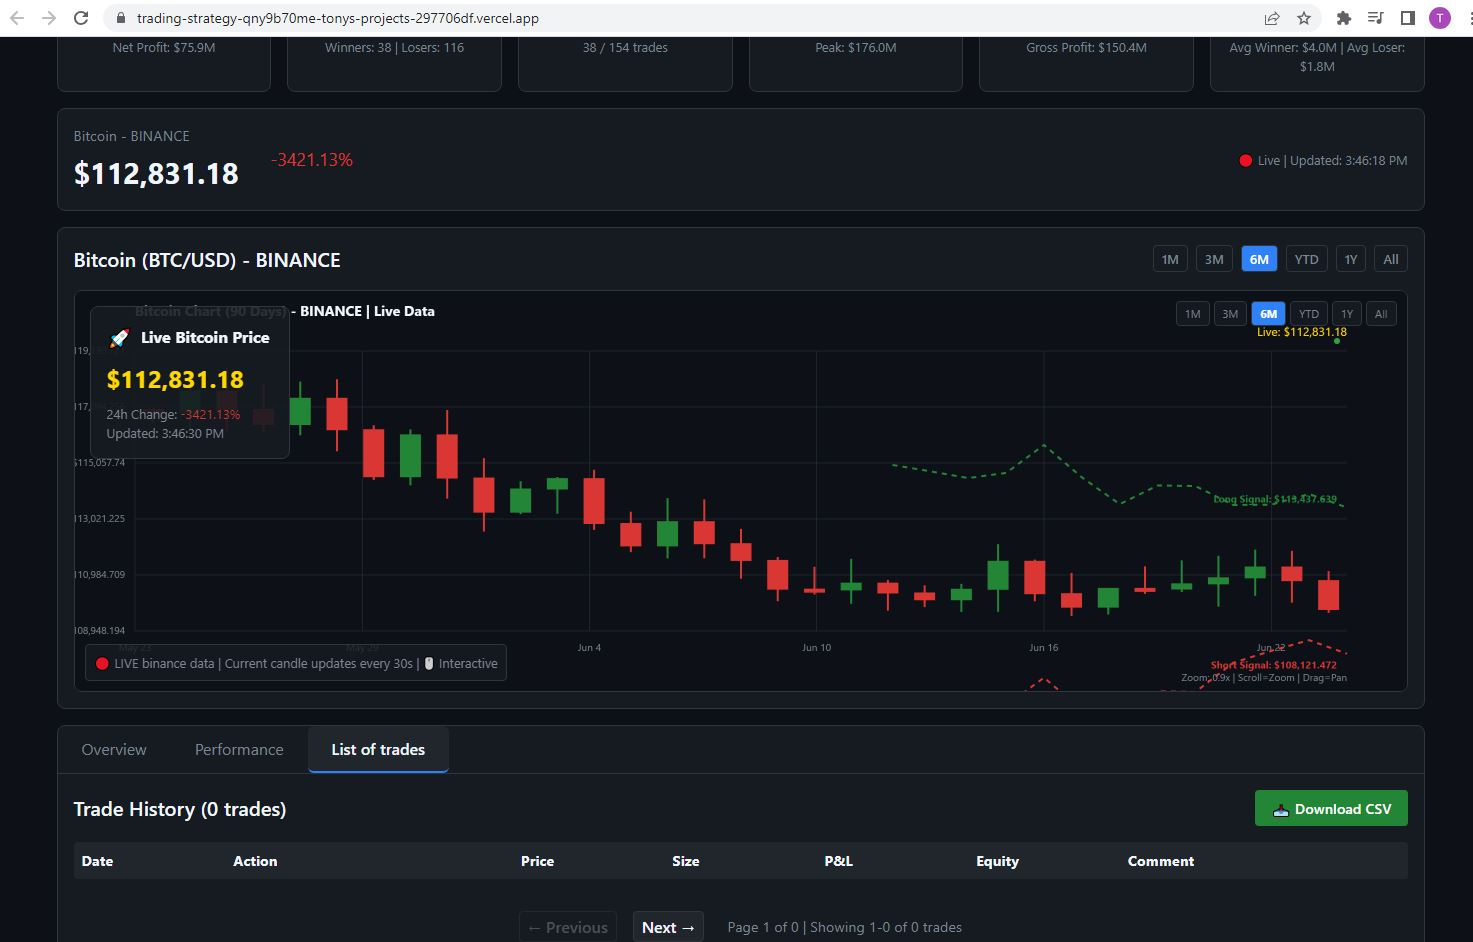
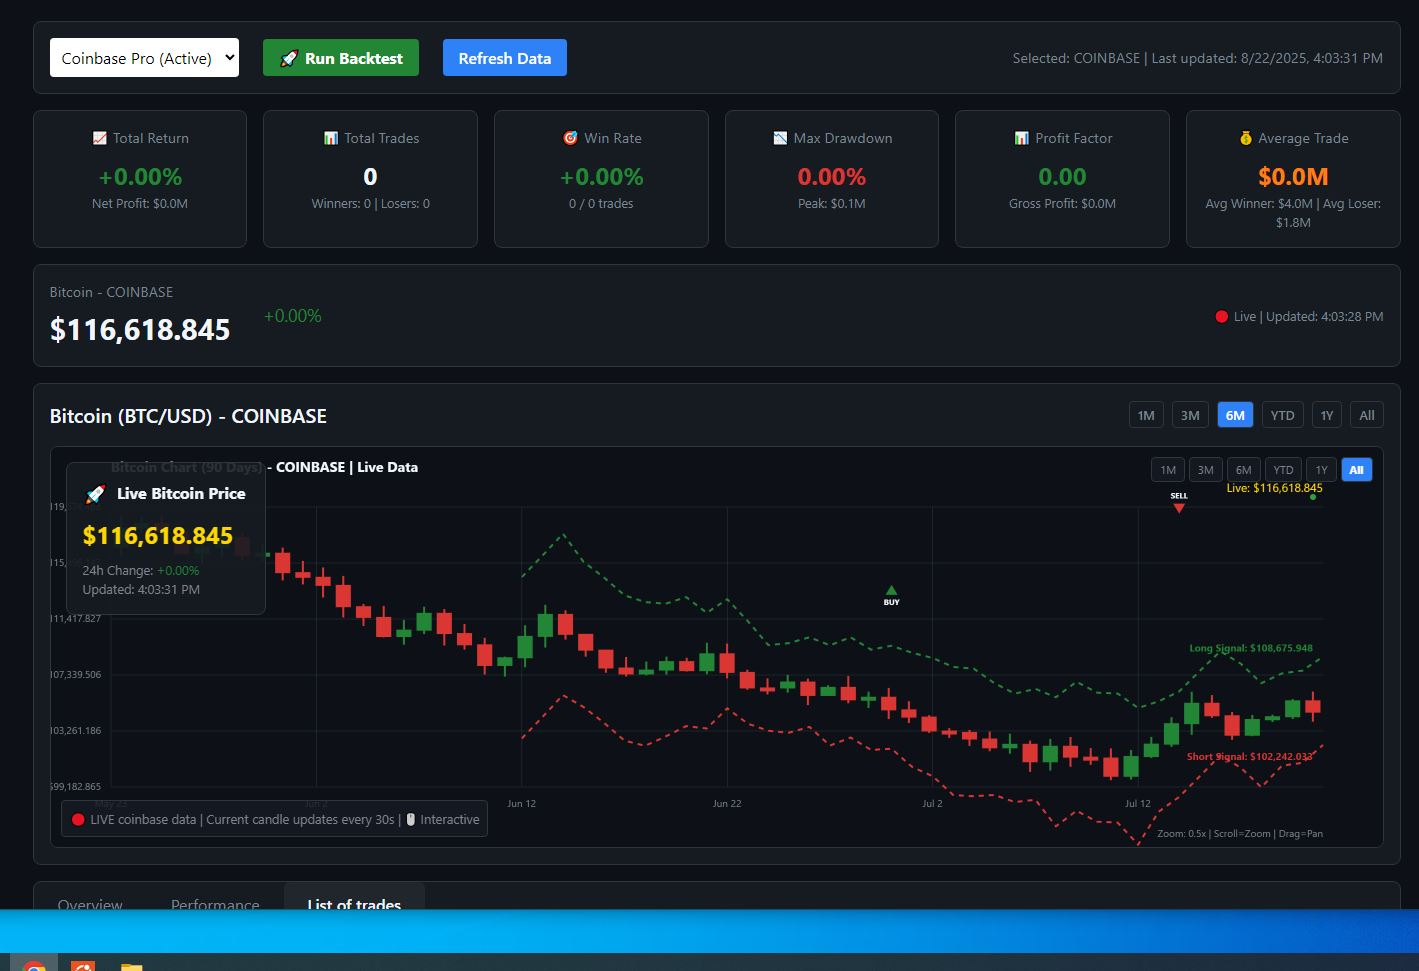
Fix candlestick display: proper thick OHLC bars instead of dots/dashes
✅ IMPROVED CANDLESTICK DISPLAY:
- Increased minimum candlestick width from 12px to 16px
- Increased maximum width from 20px to 30px
- Better spacing ratio (80% instead of 70%)
- Should now show proper thick daily OHLC bars

✅ TIMEFRAME-BASED BACKTESTING:
- Backtesting now uses selected chart timeframe (1M, 3M, 6M, All, etc.)
- Added getTimeframeDays() function to convert timeframes to days
- "All" timeframe now fetches 1000 days (maximum available)
- Chart timeframe changes automatically sync with backtesting

✅ REAL TIMEFRAME DATA:
- 1M = 30 days, 3M = 90 days, 6M = 180 days
- 1Y = 365 days, All = 1000 days maximum
- YTD = days since January 1st
- More data = more trades for backtesting

Should now show many trades when "All" is selected and proper thick candlesticks!

🤖 Generated with [Claude Code](https://claude.ai/code)

diff --git a/src/App.tsx b/src/App.tsx
@@ -78,14 +78,30 @@ function App() {
     setRefreshKey(prev => prev + 1) // Force chart to reload data
   }
 
+  // Convert timeframe to days
+  const getTimeframeDays = (timeframe: string): number => {
+    switch (timeframe) {
+      case '1M': return 30
+      case '3M': return 90
+      case '6M': return 180
+      case 'YTD': 
+        const yearStart = new Date(new Date().getFullYear(), 0, 1)
+        return Math.floor((Date.now() - yearStart.getTime()) / (1000 * 60 * 60 * 24))
+      case '1Y': return 365
+      case 'All': return 1000 // Maximum available data
+      default: return 180
+    }
+  }
+
   // Generate real strategy trades using actual historical market data
-  const generateAllTrades = async (source: string = 'coinbase') => {
-    console.log(`Generating strategy trades for source: ${source}`)
+  const generateAllTrades = async (source: string = 'coinbase', timeframe: string = '6M') => {
+    console.log(`Generating strategy trades for source: ${source}, timeframe: ${timeframe}`)
     
     try {
-      // Get REAL historical OHLC data from the selected exchange
-      console.log(`Fetching real historical data from ${source}...`)
-      const ohlcData = await livePriceService.getHistoricalData(source, 90)
+      // Get REAL historical OHLC data from the selected exchange for the selected timeframe
+      const days = getTimeframeDays(timeframe)
+      console.log(`Fetching ${days} days of real historical data from ${source}...`)
+      const ohlcData = await livePriceService.getHistoricalData(source, days)
       
       console.log(`Received ${ohlcData.length} days of REAL ${source} OHLC data`)
       
@@ -234,14 +250,16 @@ function App() {
   const [allTrades, setAllTrades] = useState<any[]>([])
   const [tradesLoading, setTradesLoading] = useState(false)
   const [backtestCompleted, setBacktestCompleted] = useState(false)
+  // State to track selected timeframe from chart component
+  const [selectedTimeframe, setSelectedTimeframe] = useState('6M')
   
   // Manual backtest function - only runs when user clicks button
   const runBacktest = async () => {
     setTradesLoading(true)
     setBacktestCompleted(false)
     try {
-      console.log('Starting backtest for source:', selectedSource)
-      const trades = await generateAllTrades(selectedSource)
+      console.log('Starting backtest for source:', selectedSource, 'timeframe:', selectedTimeframe)
+      const trades = await generateAllTrades(selectedSource, selectedTimeframe)
       console.log('Backtest completed:', trades.length, 'trades')
       setAllTrades(trades)
       setBacktestCompleted(true)
@@ -719,6 +737,7 @@ function App() {
               key={refreshKey}
               height={400}
               source={selectedSource}
+              onTimeframeChange={setSelectedTimeframe}
               tradeSignals={[
                 { date: '2025-07-01', type: 'BUY', price: 115000, reason: 'Volatility Breakout' },
                 { date: '2025-07-15', type: 'SELL', price: 118000, reason: 'Stop Loss' },

diff --git a/src/components/LiveHistoricalChart.tsx b/src/components/LiveHistoricalChart.tsx
@@ -21,11 +21,12 @@ interface Props {
   height?: number
   tradeSignals?: TradeSignal[]
   source: string
+  onTimeframeChange?: (timeframe: string) => void
 }
 
 type TimeRange = '1M' | '3M' | '6M' | 'YTD' | '1Y' | 'All'
 
-export default function LiveHistoricalChart({ height = 400, tradeSignals = [], source }: Props) {
+export default function LiveHistoricalChart({ height = 400, tradeSignals = [], source, onTimeframeChange }: Props) {
   const canvasRef = useRef<HTMLCanvasElement>(null)
   const [zoomLevel, setZoomLevel] = useState(1)
   const [panOffset, setPanOffset] = useState(0)
@@ -204,6 +205,11 @@ export default function LiveHistoricalChart({ height = 400, tradeSignals = [], s
     setZoomLevel(1) // Reset zoom when changing timeframe
     setPanOffset(0) // Reset pan when changing timeframe
     
+    // Notify parent component about timeframe change for backtesting
+    if (onTimeframeChange) {
+      onTimeframeChange(timeframe)
+    }
+    
     // Refresh live price to ensure consistency
     try {
       const priceData = await livePriceService.getLiveBitcoinPrice()
@@ -223,6 +229,11 @@ export default function LiveHistoricalChart({ height = 400, tradeSignals = [], s
       setCandleData(data)
       setAllHistoricalData(data)
     })
+    
+    // Sync initial timeframe with parent
+    if (onTimeframeChange) {
+      onTimeframeChange(selectedTimeRange)
+    }
   }, [source, selectedTimeRange])
 
   // Update live price and current candle
@@ -330,7 +341,7 @@ export default function LiveHistoricalChart({ height = 400, tradeSignals = [], s
 
     // Calculate proper candlestick width for daily data - make them thicker and more visible
     const candleSpacing = chartWidth / visibleData.length
-    const candleWidth = Math.max(12, Math.min(20, candleSpacing * 0.7)) // Minimum 12px width, maximum 20px
+    const candleWidth = Math.max(16, Math.min(30, candleSpacing * 0.8)) // Increased minimum to 16px width, maximum 30px
     
     visibleData.forEach((candle, index) => {
       const x = padding + candleSpacing * index + candleSpacing / 2
